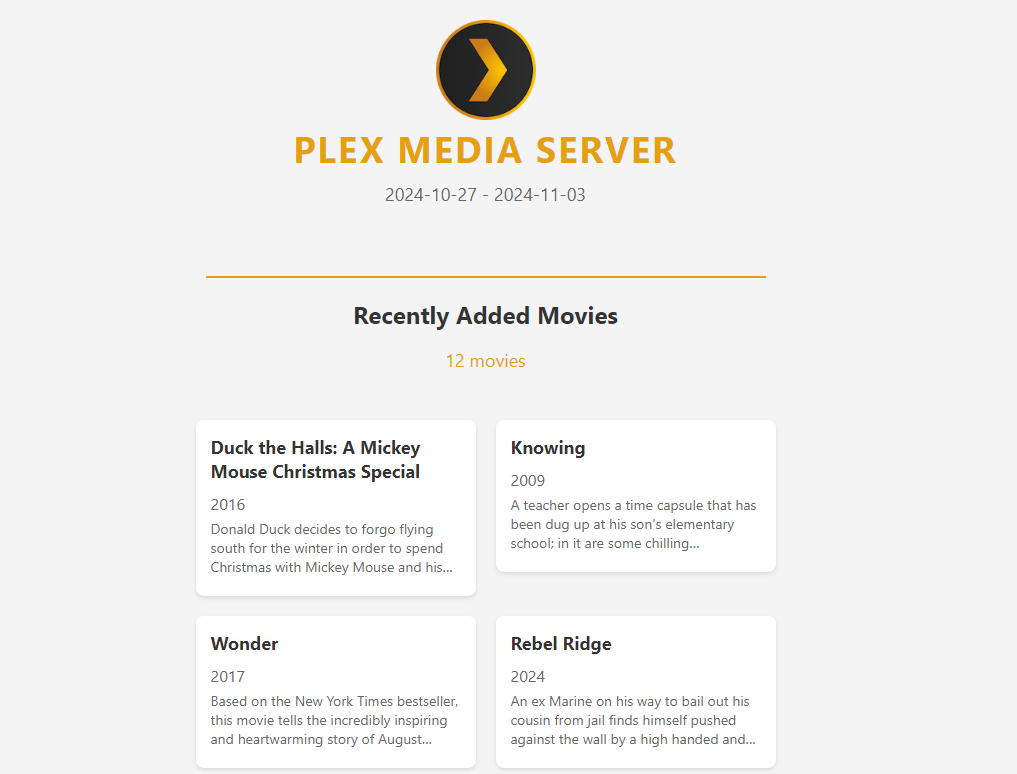
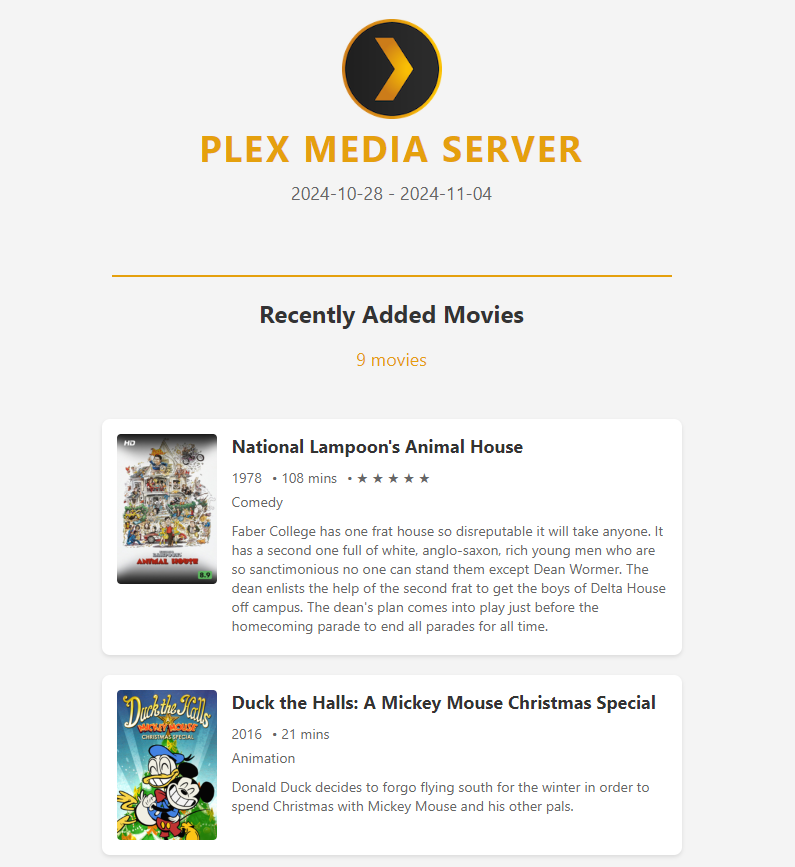
Update recently_added.html to include poster images, ratings, runtime, and genres.

diff --git a/recently_added.html b/recently_added.html
@@ -1,3 +1,24 @@
+% if data:
+<%
+    import plexpy
+    from plexpy.helpers import grouper, get_img_service
+    recently_added = data['recently_added']
+
+    if plexpy.CONFIG.NEWSLETTER_SELF_HOSTED and plexpy.CONFIG.HTTP_BASE_URL:
+        base_url = plexpy.CONFIG.HTTP_BASE_URL + plexpy.HTTP_ROOT + 'newsletter/'
+    elif preview:
+        base_url = 'newsletter/'
+    else:
+        base_url = ''
+
+    service = get_img_service(include_self=True)
+    if service == 'self-hosted' and plexpy.CONFIG.HTTP_BASE_URL:
+        base_url_image = plexpy.CONFIG.HTTP_BASE_URL + plexpy.HTTP_ROOT + 'image/'
+    elif preview and service and service != 'self-hosted':
+        base_url_image = 'image/'
+    else:
+        base_url_image = ''
+%>
 <!DOCTYPE html>
 <html>
 <head>
@@ -20,29 +41,34 @@
             color-scheme: light dark;
             supported-color-schemes: light dark;
         }
-        
+
         @media (prefers-color-scheme: dark) {
-            .dark-mode { background-color: #1a1a1a !important; color: #ffffff !important; }
-            .dark-mode-text { color: #ffffff !important; }
-            .dark-mode-border { border-color: #E5A00D !important; }
-            .dark-mode-card { background-color: #2d2d2d !important; }
+            .dark-mode {
+                background-color: #1a1a1a !important;
+                color: #ffffff !important;
+            }
+
+            .dark-mode-text {
+                color: #ffffff !important;
+            }
+
+            .dark-mode-border {
+                border-color: #E5A00D !important;
+            }
+
+            .dark-mode-card {
+                background-color: #2d2d2d !important;
+            }
         }
     </style>
 </head>
 <body style="margin: 0; padding: 0; width: 100%; background-color: #f4f4f4;" class="dark-mode">
-    <% if data:
-        import plexpy
-        from plexpy.helpers import grouper, get_img_service
-        recently_added = data['recently_added']
-    %>
-    
     <table role="presentation" border="0" cellpadding="0" cellspacing="0" width="100%" style="max-width: 600px; margin: 0 auto; font-family: -apple-system, BlinkMacSystemFont, 'Segoe UI', Roboto, Helvetica, Arial, sans-serif;">
         <tr>
             <td style="padding: 20px 0; text-align: center;">
                 <!-- Header -->
                 <div class="d-flex justify-content-center align-items-center">
-                    <!-- Change to your Logo -->
-                    <img src="https://raw.githubusercontent.com/plexinc/pms-docker/refs/heads/master/img/plex-server.png" alt="Logo" width="100" height="100">
+                    <img src="https://raw.githubusercontent.com/plexinc/pms-docker/refs/heads/master/img/plex-server.png" alt="Logo" width="100" height="100"> <!-- Change to your Logo -->
                 </div>
                 <h1 style="margin: 0; font-size: 36px; font-weight: 700; color: #E5A00D; text-transform: uppercase; letter-spacing: 2px;">PLEX MEDIA SERVER</h1> <!-- Change to your Plex Media Server Name -->
                 <p style="margin: 10px 0; font-size: 18px; color: #666666;" class="dark-mode-text">
@@ -63,29 +89,62 @@
                 </p>
             </td>
         </tr>
-        
-        % for movie_a, movie_b in grouper(recently_added['movie'], 2):
+
+        % for movie in recently_added['movie']:
         <tr>
             <td>
                 <table role="presentation" border="0" cellpadding="0" cellspacing="0" width="100%">
                     <tr>
-                        % for movie in (movie_a, movie_b):
-                        % if movie:
-                        <td style="padding: 10px; width: 50%; vertical-align: top;">
-                            <div style="background: #ffffff; border-radius: 8px; padding: 15px; box-shadow: 0 2px 4px rgba(0,0,0,0.1);" class="dark-mode-card">
-                                <a href="${parameters['pms_web_url']}server/${parameters['pms_identifier']}/details?key=%2Flibrary%2Fmetadata%2F${movie['rating_key']}" style="text-decoration: none; color: inherit;">
-                                    <h3 style="margin: 0 0 10px 0; font-size: 18px; color: #333333;" class="dark-mode-text">${movie['title']}</h3>
-                                    % if movie['year']:
-                                    <p style="margin: 5px 0; color: #666666;" class="dark-mode-text">${movie['year']}</p>
-                                    % endif
-                                    <p style="margin: 5px 0; font-size: 14px; color: #666666; display: -webkit-box; -webkit-line-clamp: 3; -webkit-box-orient: vertical; overflow: hidden;" class="dark-mode-text">
-                                        ${movie['summary'][:200]}${('...' if len(movie['summary']) > 200 else '')}
-                                    </p>
+                        <td style="padding: 10px; vertical-align: top;">
+                            <div style="background: #ffffff; border-radius: 8px; padding: 15px; box-shadow: 0 2px 4px rgba(0,0,0,0.1); display: flex;" class="dark-mode-card">
+                                <a href="${parameters['pms_web_url']}#!/server/${parameters['pms_identifier']}/details?key=%2Flibrary%2Fmetadata%2F${movie['rating_key']}"
+                                   style="flex: 0 0 100px; margin-right: 15px; background-image: url(${base_url_image + movie['thumb_hash'] if base_url_image else movie['thumb_url']});
+                                          width: 100px; height: 150px; background-position: center; background-size: cover;
+                                          background-repeat: no-repeat; border-radius: 4px; background-color: #3F4245;"
+                                   title="${movie['title']}"
+                                   target="_blank">
                                 </a>
+                                <div style="flex: 1;">
+                                    <a href="${parameters['pms_web_url']}server/${parameters['pms_identifier']}/details?key=%2Flibrary%2Fmetadata%2F${movie['rating_key']}" style="text-decoration: none; color: inherit;">
+                                        <h3 style="margin: 0 0 10px 0; font-size: 18px; color: #333333;" class="dark-mode-text">${movie['title']}</h3>
+
+                                        <div style="display: flex; flex-wrap: wrap; gap: 10px; margin: 5px 0;">
+                                            % if movie['year']:
+                                            <span style="color: #666666; font-size: 14px;" class="dark-mode-text">${movie['year']}</span>
+                                            % endif
+
+                                            % if movie['duration']:
+                                            <% duration = int(int(movie['duration'])/60000) %>
+                                            <span style="color: #666666; font-size: 14px;" class="dark-mode-text">• ${duration} mins</span>
+                                            % endif
+
+                                            % if movie['rating']:
+                                            <% rating = int(round(float(movie['rating']) / 2)) %>
+                                            <span style="color: #666666; font-size: 14px;" class="dark-mode-text">
+                                                •
+                                                % for _ in range(rating):
+                                                ★
+                                                % endfor
+                                                % for _ in range(5-rating):
+                                                ☆
+                                                % endfor
+                                            </span>
+                                            % endif
+                                        </div>
+
+                                        % if movie['genres']:
+                                        <p style="margin: 5px 0; color: #666666; font-size: 14px;" class="dark-mode-text">
+                                            ${' • '.join(movie['genres'][:3])}
+                                        </p>
+                                        % endif
+
+                                        <p style="margin: 10px 0 5px 0; font-size: 14px; color: #666666;" class="dark-mode-text">
+                                            ${movie['summary']}
+                                        </p>
+                                    </a>
+                                </div>
                             </div>
                         </td>
-                        % endif
-                        % endfor
                     </tr>
                 </table>
             </td>
@@ -102,7 +161,7 @@
                 </h2>
                 <% total_episodes = sum(season['episode_count'] for show in recently_added['show'] for season in show['season']) %>
                 <p style="text-align: center; color: #E5A00D; font-size: 18px;">
-                    ${len(recently_added['show'])} show${('s' if len(recently_added['show']) > 1 else '')} / 
+                    ${len(recently_added['show'])} show${('s' if len(recently_added['show']) > 1 else '')} /
                     ${total_episodes} episode${('s' if total_episodes > 1 else '')}
                 </p>
             </td>
@@ -111,25 +170,45 @@
         % for show in recently_added['show']:
         <tr>
             <td style="padding: 10px;">
-                <div style="background: #ffffff; border-radius: 8px; padding: 15px; box-shadow: 0 2px 4px rgba(0,0,0,0.1);" class="dark-mode-card">
-                    <h3 style="margin: 0 0 10px 0; font-size: 18px; color: #333333;" class="dark-mode-text">${show['title']}</h3>
-                    % for season in show['season']:
-                    <p style="margin: 5px 0; font-size: 14px; color: #666666;" class="dark-mode-text">
-                        Season ${season['media_index']} · 
-                        % if season['episode_count'] == 1:
-                        Episode ${season['episode'][0]['media_index']} - ${season['episode'][0]['title']}
-                        % else:
-                        Episodes ${season['episode_range']}
+                <div style="background: #ffffff; border-radius: 8px; padding: 15px; box-shadow: 0 2px 4px rgba(0,0,0,0.1); display: flex;" class="dark-mode-card">
+                    <a href="${parameters['pms_web_url']}#!/server/${parameters['pms_identifier']}/details?key=%2Flibrary%2Fmetadata%2F${show['rating_key']}"
+                       style="flex: 0 0 100px; margin-right: 15px; background-image: url(${base_url_image + show['thumb_hash'] if base_url_image else show['thumb_url']});
+                              width: 100px; height: 150px; background-position: center; background-size: cover;
+                              background-repeat: no-repeat; border-radius: 4px; background-color: #3F4245;"
+                       title="${show['title']}"
+                       target="_blank">
+                    </a>
+                    <div style="flex: 1;">
+                        <h3 style="margin: 0 0 10px 0; font-size: 18px; color: #333333;" class="dark-mode-text">${show['title']}</h3>
+
+                        % if show['year']:
+                        <p style="margin: 5px 0; color: #666666; font-size: 14px;" class="dark-mode-text">${show['year']}</p>
                         % endif
-                    </p>
-                    % endfor
+
+                        % for season in show['season']:
+                        <p style="margin: 5px 0; font-size: 14px; color: #666666;" class="dark-mode-text">
+                            Season ${season['media_index']} ·
+                            % if season['episode_count'] == 1:
+                            Episode ${season['episode'][0]['media_index']} - ${season['episode'][0]['title']}
+                            % else:
+                            Episodes ${season['episode_range']}
+                            % endif
+                        </p>
+                        % endfor
+
+                        % if show['summary']:
+                        <p style="margin: 15px 0 5px 0; font-size: 14px; color: #666666;" class="dark-mode-text">
+                            ${show['summary']}
+                        </p>
+                        % endif
+                    </div>
                 </div>
             </td>
         </tr>
         % endfor
         % endif
 
-<!-- Original footer -->
+        <!-- Original footer -->
         <tr>
             <td class="footer" style="font-family: 'Open Sans', Helvetica, Arial, sans-serif;font-size: 12px;display: none;vertical-align: top;clear: both;margin-top: 10px;text-align: center;width: 100%;">
                 <div class="footer-bar" style="margin-left: auto;margin-right: auto;width: 200px;border-top: 1px solid #E5A00D;margin-top: 25px;"></div>
@@ -141,3 +220,4 @@
     </table>
 </body>
 </html>
+% endif
